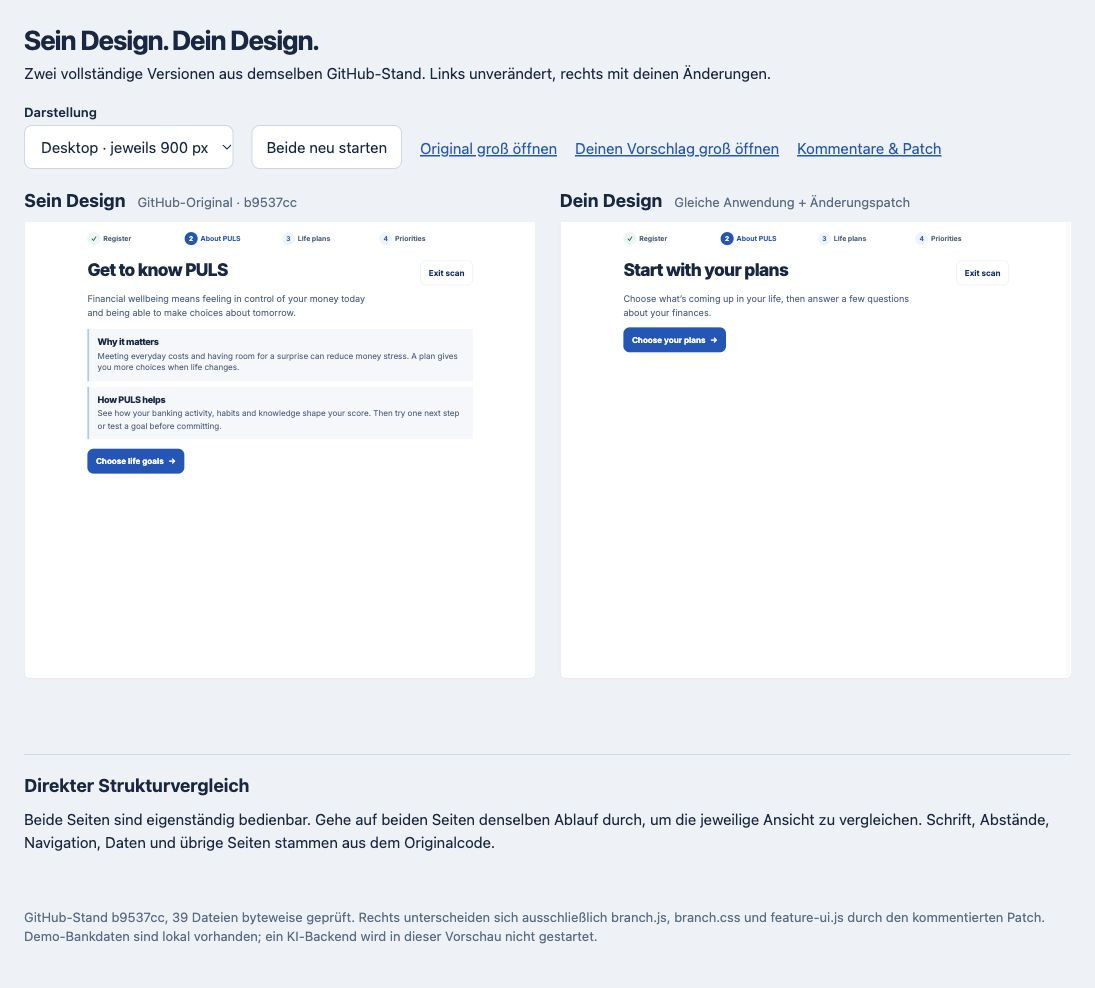
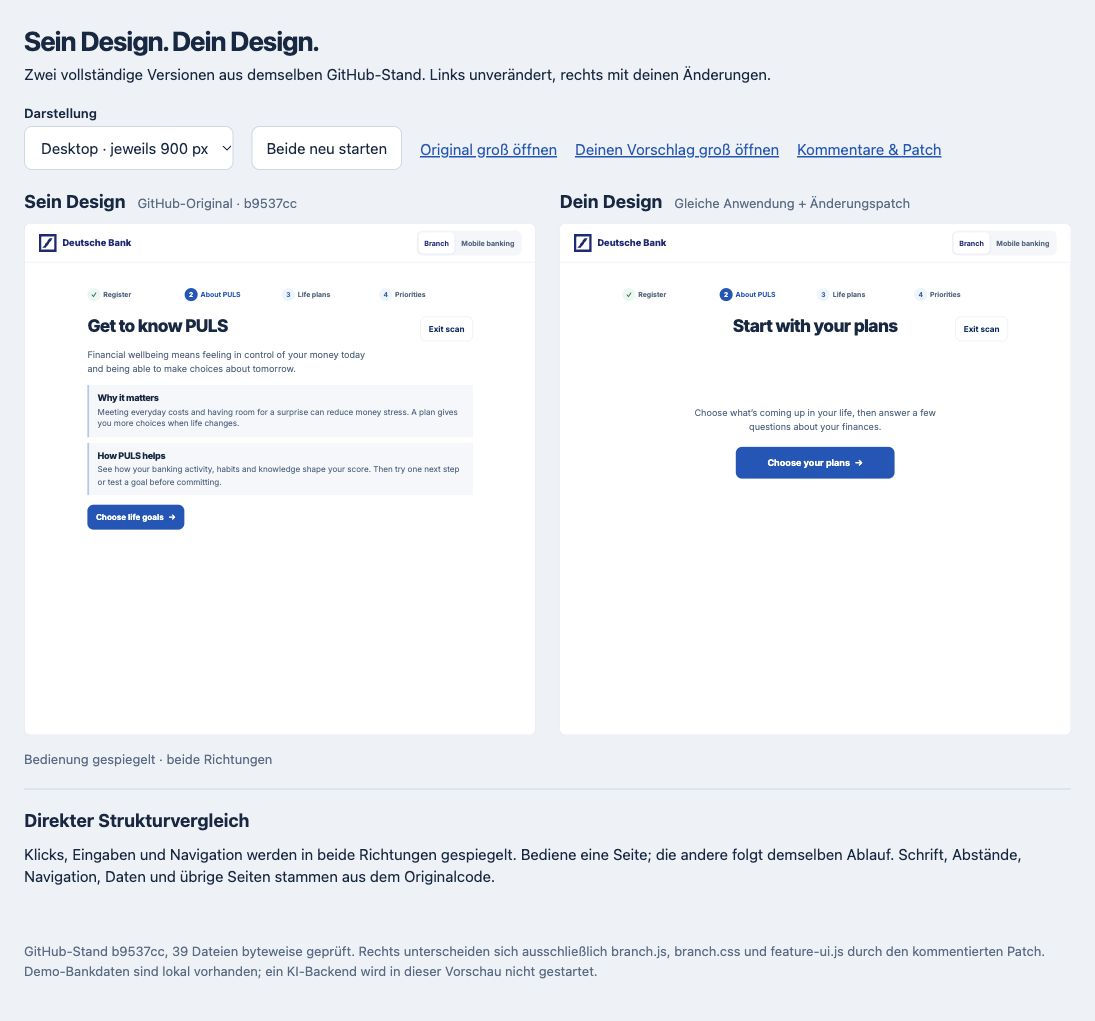
feat: mirror comparison interactions and center plan introduction

diff --git a/reviews/lucas-onboarding/comparison.js b/reviews/lucas-onboarding/comparison.js
@@ -6,3 +6,71 @@ new ResizeObserver(scaleFrames).observe(document.querySelector('.comparison'));
 size.addEventListener('change',resize);
 document.querySelector('#restart').addEventListener('click',()=>document.querySelectorAll('iframe').forEach(frame=>frame.src=frame.src));
 resize();
+
+// REVIEW-06: Mirror real UI actions without changing either application's source files.
+const frames=[...document.querySelectorAll('iframe')];
+const status=document.querySelector('#mirror-status');
+let pending=Promise.resolve();
+let applying=false;
+const boundDocuments=new WeakSet();
+const mirroredScrolls=new WeakSet();
+function description(element){
+  const field=element.closest('input,select,textarea')||element.closest('label')?.querySelector('input,select,textarea');
+  if(field){return {kind:'field',tag:field.tagName.toLowerCase(),id:field.id,name:field.name,form:field.form?.id,type:field.type,value:field.value};}
+  const control=element.closest('button,a,summary');if(!control)return null;
+  return {kind:'control',tag:control.tagName.toLowerCase(),id:control.id,form:control.form?.id,type:control.type,text:control.textContent.trim(),data:[...control.attributes].filter(a=>a.name.startsWith('data-')).map(a=>[a.name,a.value])};
+}
+function counterpart(doc,item){
+  const esc=x=>doc.defaultView.CSS.escape(x);
+  if(item.id){const byId=doc.getElementById(item.id);if(byId)return byId;}
+  const scope=item.form?doc.getElementById(item.form):doc;if(!scope)return null;
+  if(item.kind==='field'){
+    let selector=item.tag+'[name="'+esc(item.name)+'"]';
+    if(['radio','checkbox'].includes(item.type))selector+='[value="'+esc(item.value)+'"]';
+    return scope.querySelector(selector);
+  }
+  if(item.data.length){const selector=item.tag+item.data.map(([k,v])=>'['+k+'="'+esc(v)+'"]').join('');const matches=scope.querySelectorAll(selector);if(matches.length===1)return matches[0];}
+  if(item.type==='submit'&&item.form)return scope.querySelector('button[type="submit"],button:not([type]),input[type="submit"]');
+  return [...scope.querySelectorAll(item.tag)].find(x=>x.textContent.trim()===item.text)||null;
+}
+function enqueue(other,item,action){
+  pending=pending.then(async()=>{
+    const deadline=Date.now()+5000;let target;
+    do{target=counterpart(other.contentDocument,item);if(target&&!target.disabled)break;await new Promise(r=>setTimeout(r,60));}while(Date.now()<deadline);
+    if(!target||target.disabled){status.textContent='Ansichten unterscheiden sich im Ablauf. Mit „Beide neu starten“ wieder angleichen.';return;}
+    applying=true;try{target.dispatchEvent(new target.ownerDocument.defaultView.Event('pointerdown',{bubbles:true}));action(target);}finally{applying=false;}status.textContent='Bedienung gespiegelt · beide Richtungen';
+  }).catch(()=>{status.textContent='Spiegelung unterbrochen. Beide Ansichten neu starten.';});
+}
+function attachMirror(frame){
+  const doc=frame.contentDocument,other=frames.find(x=>x!==frame);if(!doc||!other||boundDocuments.has(doc))return;
+  boundDocuments.add(doc);
+  let clickedSubmitAt=0;
+  doc.addEventListener('click',event=>{
+    if(applying||!event.isTrusted)return;
+    const item=description(event.target);if(!item)return;
+    if(item.kind==='field')return;
+    if(item.kind==='control'&&item.type==='submit')clickedSubmitAt=Date.now();
+    enqueue(other,item,target=>target.click());
+  },true);
+  for(const name of ['input','change'])doc.addEventListener(name,event=>{
+    if(applying)return;
+    const field=event.target;if(!field.matches('input,textarea,select'))return;
+    if(['radio','checkbox'].includes(field.type)){const checked=field.checked;enqueue(other,description(field),target=>{target.checked=checked;target.dispatchEvent(new target.ownerDocument.defaultView.Event(name,{bubbles:true}));});return;}
+    if(field.type==='file'){
+      // Local files can be mirrored without opening a second file picker.
+      const files=field.files;enqueue(other,description(field),target=>{const transfer=new target.ownerDocument.defaultView.DataTransfer();for(const file of files)transfer.items.add(file);target.files=transfer.files;target.dispatchEvent(new target.ownerDocument.defaultView.Event(name,{bubbles:true}));});return;
+    }
+    const value=field.value;enqueue(other,description(field),target=>{target.value=value;target.dispatchEvent(new target.ownerDocument.defaultView.Event(name,{bubbles:true}));});
+  },true);
+  doc.addEventListener('submit',event=>{
+    if(applying||!event.isTrusted||Date.now()-clickedSubmitAt<250)return;
+    const formId=event.target.id;if(!formId)return;
+    enqueue(other,{kind:'control',tag:'form',id:formId,data:[]},target=>target.requestSubmit());
+  },true);
+  doc.addEventListener('scroll',event=>{
+    // Keep both views at the same scroll position; generated scroll events do not recurse.
+    const source=event.target;if(mirroredScrolls.has(source)){mirroredScrolls.delete(source);return;}const target=source===doc?other.contentDocument?.scrollingElement:source.id?other.contentDocument?.getElementById(source.id):null;
+    if(target&&Math.abs(target.scrollTop-(source===doc?doc.scrollingElement.scrollTop:source.scrollTop))>2){mirroredScrolls.add(source===doc?other.contentDocument:target);target.scrollTop=source===doc?doc.scrollingElement.scrollTop:source.scrollTop;}
+  },true);
+}
+frames.forEach(frame=>{frame.addEventListener('load',()=>attachMirror(frame));if(frame.contentDocument?.readyState==='complete')attachMirror(frame);});

diff --git a/reviews/lucas-onboarding/preview.html b/reviews/lucas-onboarding/preview.html
@@ -1,1 +1,1 @@
-<!doctype html><html lang="de"><meta charset="utf-8"><meta name="viewport" content="width=device-width, initial-scale=1"><title>PULS · Original und Vorschlag</title><link rel="stylesheet" href="comparison.css"><main><h1>Sein Design. Dein Design.</h1><p>Zwei vollständige Versionen aus demselben GitHub-Stand. Links unverändert, rechts mit deinen Änderungen.</p><nav><label>Darstellung<select id="size"><option value="desktop">Desktop · jeweils 900 px</option><option value="mobile">Mobil · jeweils 390 px</option></select></label><button id="restart" type="button">Beide neu starten</button><a href=".runtime/original/dist/" target="_blank">Original groß öffnen</a><a href=".runtime/proposal/dist/" target="_blank">Deinen Vorschlag groß öffnen</a><a href="README.md">Kommentare &amp; Patch</a></nav><div class="comparison"><article><h2>Sein Design <span>GitHub-Original · b9537cc</span></h2><div class="frame-host"><iframe title="Sein Design" src=".runtime/original/dist/"></iframe></div></article><article><h2>Dein Design <span>Gleiche Anwendung + Änderungspatch</span></h2><div class="frame-host"><iframe title="Dein Design" src=".runtime/proposal/dist/"></iframe></div></article></div><aside><h2>Direkter Strukturvergleich</h2><p>Beide Seiten sind eigenständig bedienbar. Gehe auf beiden Seiten denselben Ablauf durch, um die jeweilige Ansicht zu vergleichen. Schrift, Abstände, Navigation, Daten und übrige Seiten stammen aus dem Originalcode.</p></aside><p class="note">GitHub-Stand b9537cc, 39 Dateien byteweise geprüft. Rechts unterscheiden sich ausschließlich branch.js, branch.css und feature-ui.js durch den kommentierten Patch. Demo-Bankdaten sind lokal vorhanden; ein KI-Backend wird in dieser Vorschau nicht gestartet.</p></main><script src="comparison.js"></script></html>
+<!doctype html><html lang="de"><meta charset="utf-8"><meta name="viewport" content="width=device-width, initial-scale=1"><title>PULS · Original und Vorschlag</title><link rel="stylesheet" href="comparison.css"><main><h1>Sein Design. Dein Design.</h1><p>Zwei vollständige Versionen aus demselben GitHub-Stand. Links unverändert, rechts mit deinen Änderungen.</p><nav><label>Darstellung<select id="size"><option value="desktop">Desktop · jeweils 900 px</option><option value="mobile">Mobil · jeweils 390 px</option></select></label><button id="restart" type="button">Beide neu starten</button><a href=".runtime/original/dist/" target="_blank">Original groß öffnen</a><a href=".runtime/proposal/dist/" target="_blank">Deinen Vorschlag groß öffnen</a><a href="README.md">Kommentare &amp; Patch</a></nav><div class="comparison"><article><h2>Sein Design <span>GitHub-Original · b9537cc</span></h2><div class="frame-host"><iframe title="Sein Design" src=".runtime/original/dist/"></iframe></div></article><article><h2>Dein Design <span>Gleiche Anwendung + Änderungspatch</span></h2><div class="frame-host"><iframe title="Dein Design" src=".runtime/proposal/dist/"></iframe></div></article></div><p id="mirror-status" role="status">Bedienung gespiegelt · beide Richtungen</p><aside><h2>Direkter Strukturvergleich</h2><p>Klicks, Eingaben und Navigation werden in beide Richtungen gespiegelt. Bediene eine Seite; die andere folgt demselben Ablauf. Schrift, Abstände, Navigation, Daten und übrige Seiten stammen aus dem Originalcode.</p></aside><p class="note">GitHub-Stand b9537cc, 39 Dateien byteweise geprüft. Rechts unterscheiden sich ausschließlich branch.js, branch.css und feature-ui.js durch den kommentierten Patch. Demo-Bankdaten sind lokal vorhanden; ein KI-Backend wird in dieser Vorschau nicht gestartet.</p></main><script src="comparison.js"></script></html>

diff --git a/reviews/lucas-onboarding/proposal.css b/reviews/lucas-onboarding/proposal.css
@@ -13,3 +13,15 @@
 .sources-review .sources-score { display:flex; justify-content:center; margin-top:12px; }
 .sources-review .sources-score .button { min-height:50px; min-width:min(100%,260px); }
 .sources-review .sources-summary { padding-top:16px; border-top:1px solid var(--line); }
+
+/* REVIEW-07: Center the introduction and CTA near the gap between the original explanation panels. */
+.branch-flow:has(.plans-introduction) .branch-heading { position:relative; justify-content:center; padding-inline:100px; text-align:center; }
+.branch-flow:has(.plans-introduction) .branch-heading .branch-exit { position:absolute; right:0; top:0; }
+.plans-introduction { display:flex; flex-direction:column; align-items:center; justify-content:center; gap:24px; min-height:350px; padding-block:36px; text-align:center; }
+.plans-introduction .branch-lead { max-width:450px; margin:0; }
+.plans-introduction .actions { justify-content:center; margin:0; width:100%; }
+.plans-introduction .button { min-height:56px; min-width:min(100%,280px); font-size:1rem; padding:16px 24px; }
+@media(max-width:570px){
+ .branch-flow:has(.plans-introduction) .branch-heading { padding-inline:0; padding-top:56px; }
+ .plans-introduction { min-height:310px; padding-block:24px; }
+}

diff --git a/reviews/lucas-onboarding/comparison.css b/reviews/lucas-onboarding/comparison.css
@@ -5,3 +5,6 @@
 iframe{box-sizing:content-box}.frame-host{height:calc(902px * var(--scale,1))}.mobile .frame-host{height:calc(1202px * var(--scale,1))}
 
 nav>button{min-height:44px;padding:8px 14px;border:1px solid #ccd8e6;border-radius:8px;background:white;color:#142944;font:15px system-ui}
+/* Prevent browser focus from scrolling the scaled frame inside its comparison column. */
+.frame-host{overflow:clip}.comparison{overflow:visible}
+#mirror-status{margin-top:14px;color:#556c87;font-size:13px}

diff --git a/reviews/lucas-onboarding/README.md b/reviews/lucas-onboarding/README.md
@@ -13,7 +13,7 @@ python3 -m http.server 8012 --bind 127.0.0.1
 
 Aus diesem Review-Ordner ausführen. Dann http://localhost:8012/preview.html öffnen. Der Generator schreibt nur in den ignorierten Ordner `.runtime/`; das Quellrepository bleibt unverändert. Die vollständigen App-Dateien werden nicht als zweiter Quellbestand committed.
 
-Beide Anwendungen sind eigenständig bedienbar. Derselbe Ablauf lässt sich auf beiden Seiten durchgehen. Desktop: jeweils 900 × 900 px. Mobil: jeweils 390 × 1200 px. Bei weniger Platz werden beide gleichmäßig verkleinert. Die Links „groß öffnen“ zeigen die vollständigen Apps ohne Vergleichsrahmen. Es gibt keine Vorschau-Navigation mehr, die erfundene Bildschirmzustände erzeugt.
+Beide Anwendungen sind vollständig vorhanden. Die Vergleichsoberfläche spiegelt Klicks, Formulareingaben, Auswahlen und Navigation in beide Richtungen, ohne die Originaldateien zu verändern. Bediene eine Seite; die andere folgt. Die Spiegelung verwendet stabile Aktionskennungen und Formularfelder; unterschiedliche Beschriftungen der Einführungsbuttons funktionieren ebenfalls. Desktop: jeweils 900 × 900 px. Mobil: jeweils 390 × 1200 px. Bei weniger Platz werden beide gleichmäßig verkleinert. Die Links „groß öffnen“ zeigen die vollständigen Apps ohne Vergleichsrahmen. Es gibt keine Vorschau-Navigation mehr, die erfundene Bildschirmzustände erzeugt. „Beide neu starten“ setzt die Ansichten bei Bedarf wieder auf denselben Anfang.
 
 Die Demo-Bankdaten werden unverändert aus den mitgelieferten JSON-Dateien geladen. Es läuft nur ein statischer Server, kein KI-Backend. Die Anwendungen liegen auf demselben lokalen Ursprung: Bei Tests der Mobile-Banking-Speicherung teilen sie sich den ursprünglichen Local-Storage-Schlüssel. Der hier geprüfte Filialablauf hält seinen Zustand je Anwendung getrennt im Speicher. Kein produktiver Dienst wurde verändert.
 
@@ -26,6 +26,8 @@ Die Demo-Bankdaten werden unverändert aus den mitgelieferten JSON-Dateien gelad
 | REVIEW-03 | `Choose your plans` als Buttontext. | Greift die Überschrift auf. |
 | REVIEW-04 | Ganze Auswahlkarten, dunkelblauer ausgewählter Zustand, weiße Schrift, keine sichtbaren Checkboxen oder Radiokreise. | Auswahl durch die gesamte Fläche erkennbar. Native Inputs bleiben für Tastatur, Screenreader und Formularlogik vorhanden. Einzelauswahl und Mehrfachauswahl behalten ihre Regeln. |
 | REVIEW-05 | Große Verbindungsmöglichkeiten, leerer Asset-Container entfällt beim Onboarding, Score-Button außerhalb und mittig. | Verbindungen und nächste Aktion stehen im Fokus. Bereits hinzugefügte Assets bleiben im tatsächlichen Patch sichtbar. Datenbasis und Speicherhinweis bleiben erhalten. |
+| REVIEW-06 | Bedienung im Vergleich beidseitig spiegeln. | Die andere Version folgt demselben Ablauf. Die Event-Weiterleitung liegt nur in der Vergleichsoberfläche, nicht in der Anwendung. |
+| REVIEW-07 | Einführung und Erklärung mittig; größerer, zentrierter „Choose your plans“-Button. | Der Inhaltsblock liegt ungefähr auf Höhe des Zwischenraums der beiden Originalkästen. Desktop gemessen: Original-Zwischenraum bei y=381 px, Blockmitte bei y=385 px. |
 
 ## Selbst übernehmen
 

diff --git a/reviews/lucas-onboarding/verification.md b/reviews/lucas-onboarding/verification.md
@@ -12,3 +12,13 @@
 ## Grenzen
 
 Frontendvergleich mit statischem lokalem Server. Kein KI-Backend gestartet. Keine produktive Bankverbindung und kein produktiver Dienst verändert. Gleicher lokaler Ursprung bedeutet gemeinsamen Local Storage für das ursprüngliche Mobile-Banking-Persistenzverhalten; der geprüfte Filialablauf verwaltet seinen Zustand separat pro Fenster. Die Serverversion unter 130.83.85.181 kann vom geprüften GitHub-Commit abweichen. Desktop-Rahmen 900 × 900 px, Mobil-Rahmen 390 × 1200 px; beide Seiten werden bei Platzmangel gleichmäßig skaliert.
+
+## Spiegelung und zentrierte Einführung
+
+- Vollständigen Filialablauf erneut durchlaufen, dabei pro Schritt ausschließlich eine Seite bedient. Abwechselnd links und rechts: Karte, PIN, Einführung, Lebensplan, Einzelantwort, Mehrfachantwort, Vorbereitung, Prioritäten, Datenquellen. Gegenüberliegende Anwendung folgt demselben Ablauf. Keine doppelte Formularnavigation.
+- Native Auswahlwerte werden gespiegelt, statt durch Label- und Input-Klicks doppelt umzuschalten. Zielereignisse sind gegen Rückkopplung geschützt.
+- Texteingaben rechts im manuellen Formular geprüft: Name „Review demo“ und Wert „100“ erscheinen auch links. Formular nicht abgeschickt; anschließend beide Anwendungen neu gestartet.
+- Originaldateien bleiben byteweise unverändert. Spiegelung liegt ausschließlich in comparison.js, das Event-Listener an beide Dokumente bindet. Die Vorschau zeigt einen Hinweis, wenn eine Aktion nicht zugeordnet werden kann.
+- Zentrierung am Desktop gemessen: Zwischenraum der Originalkästen y=376–386 px, neue Blockmitte y=385 px. Erklärung horizontal zentriert; Button mindestens 56 px hoch und 280 px breit (bei ausreichend Platz).
+- Die Rahmen verhindern mit overflow:clip, dass die Browser-Fokusbewegung eine Vergleichsspalte innerhalb ihres Rahmens verschiebt.
+- Nicht alle denkbaren App-Interaktionen und Dateiimporte geprüft. Verifiziert sind der obige Filialablauf, Auswahlen, Formularnavigation und Texteingaben.
